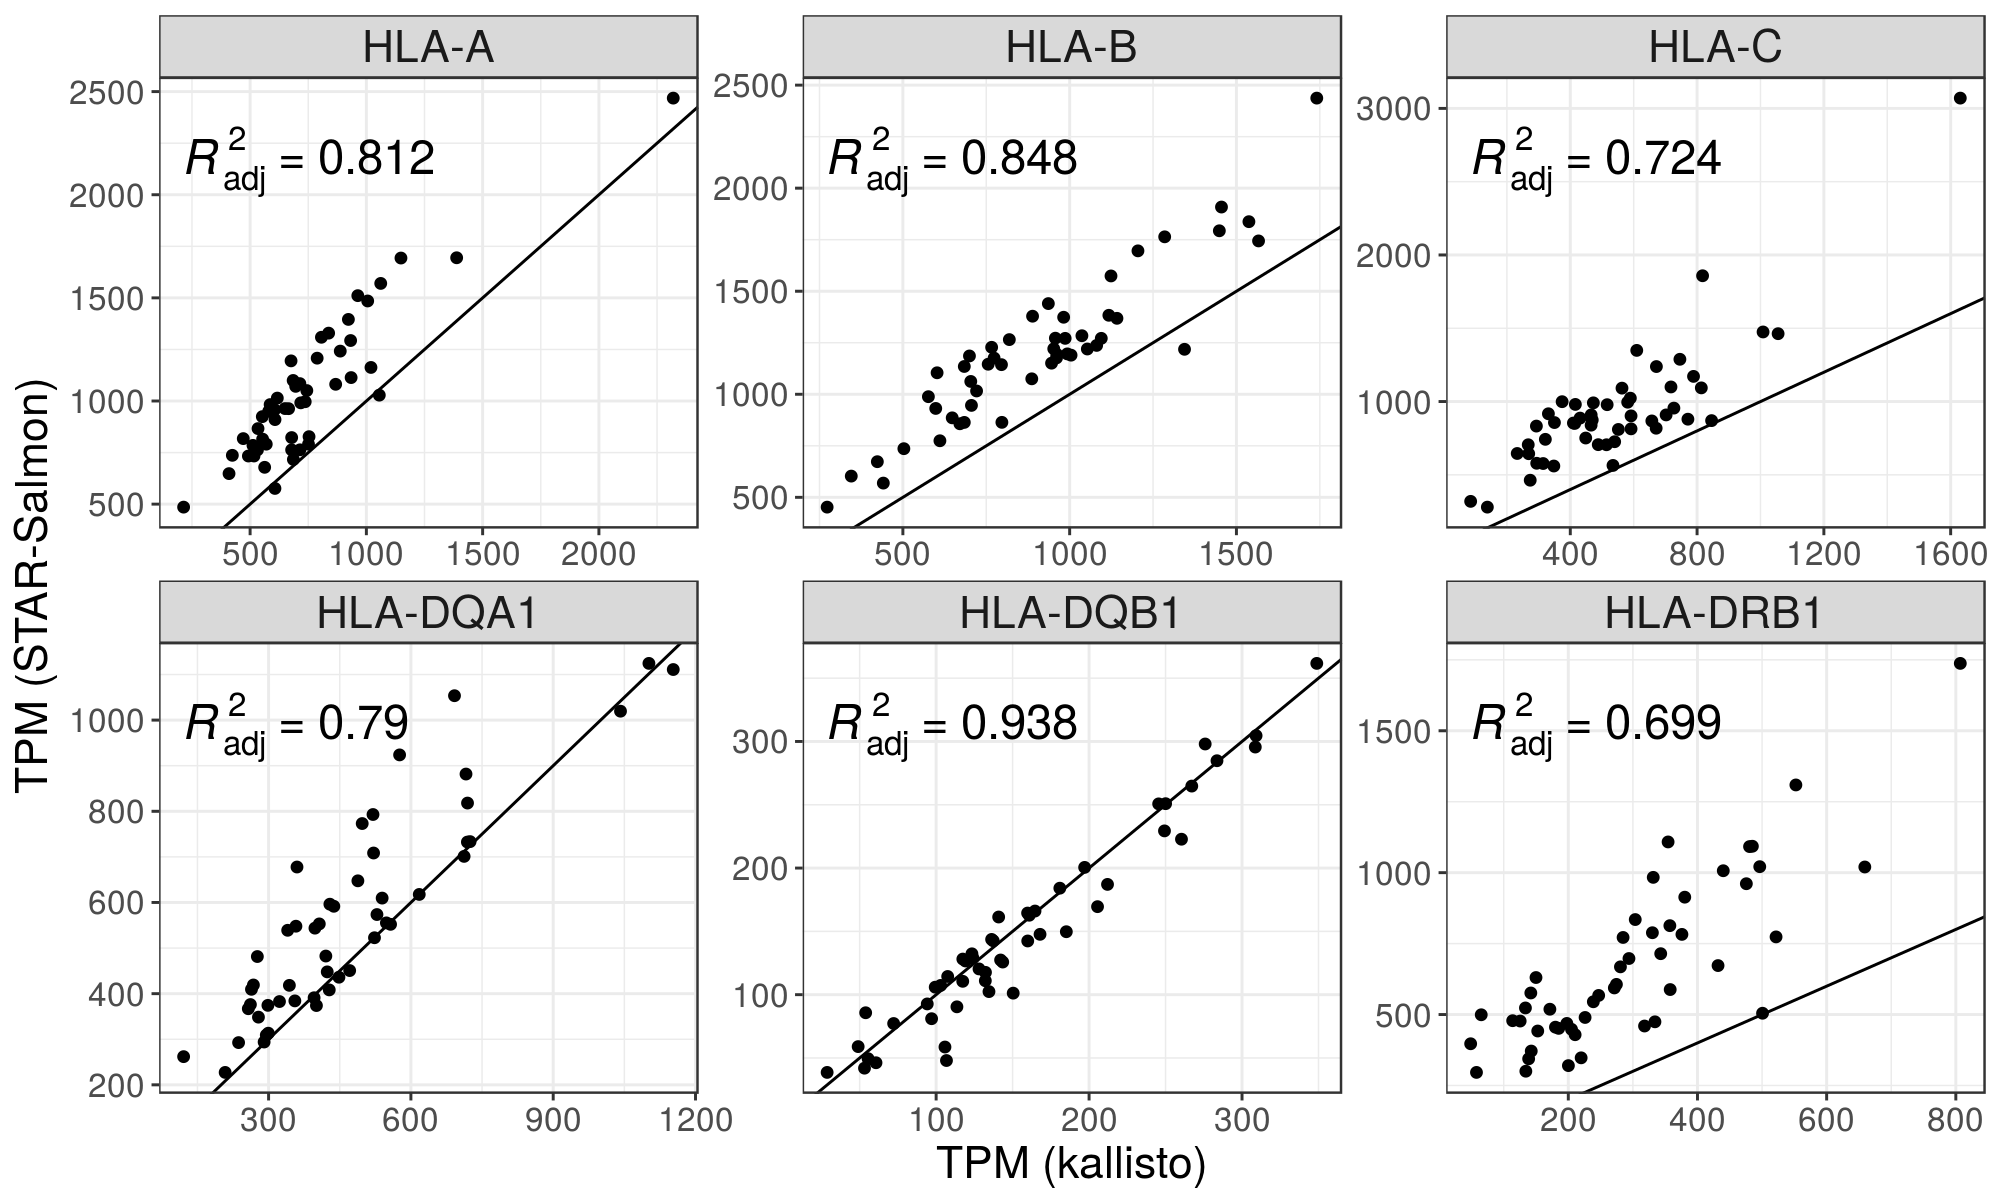
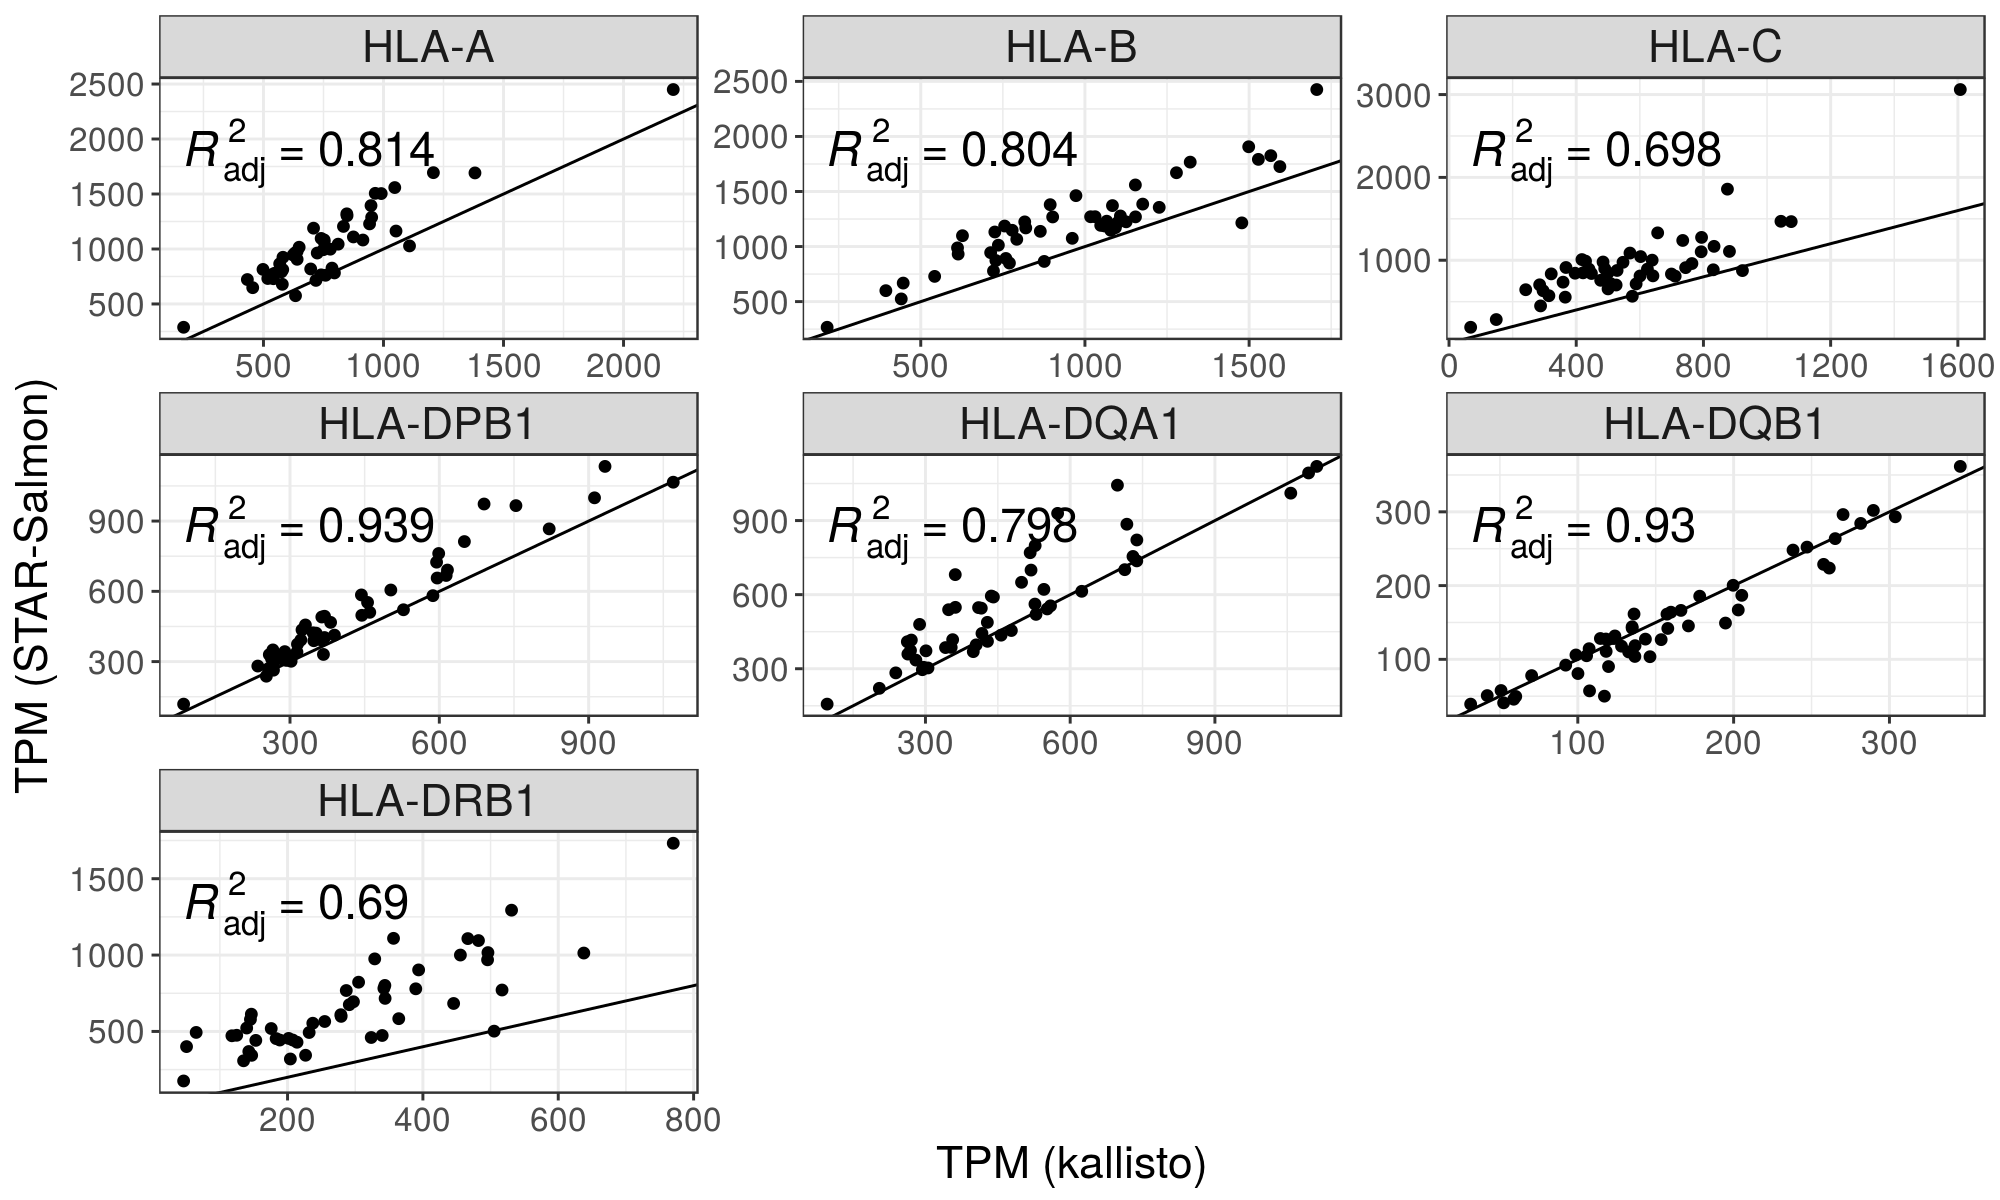
add DPB1 results

diff --git a/simulation/report.md b/simulation/report.md
@@ -21,6 +21,7 @@ Genotyping
 | HLA-A    |           100|
 | HLA-B    |           100|
 | HLA-C    |           100|
+| HLA-DPB1 |            91|
 | HLA-DQA1 |           100|
 | HLA-DQB1 |           100|
 | HLA-DRB1 |           100|
@@ -41,6 +42,7 @@ Genotyping
 | HLA-A    |           100|
 | HLA-B    |           100|
 | HLA-C    |           100|
+| HLA-DPB1 |            92|
 | HLA-DQA1 |           100|
 | HLA-DQB1 |           100|
 | HLA-DRB1 |           100|
@@ -57,27 +59,29 @@ Percentage of simulated reads not aligned:
 
 | gene\_read |  kallisto\_imgt|  kallisto\_pri|  star\_imgt|  star\_pri|
 |:-----------|---------------:|--------------:|-----------:|----------:|
-| HLA-A      |            2.30|          17.90|           0|       0.77|
-| HLA-B      |            2.16|          37.31|           0|       3.53|
-| HLA-C      |            2.31|          23.71|           0|       0.93|
-| HLA-DQA1   |            1.13|          17.93|           0|       4.61|
-| HLA-DQB1   |            1.37|          17.75|           0|       4.30|
-| HLA-DRB1   |            1.98|          66.64|           0|       7.48|
+| HLA-A      |          2.3216|        20.3804|      0.0004|     0.7588|
+| HLA-B      |          2.1864|        38.2640|      0.0002|     3.5494|
+| HLA-C      |          2.2980|        28.8020|      0.0004|     0.8900|
+| HLA-DPB1   |          1.2432|        10.4550|      0.0006|     0.6730|
+| HLA-DQA1   |          1.1666|        20.8500|      0.0004|     4.7542|
+| HLA-DQB1   |          1.3754|        22.5052|      0.0026|     5.2698|
+| HLA-DRB1   |          1.9876|        66.8854|      0.0002|     7.8766|
 
 Percentage of simulated reads from each HLA gene that aligned to a different reference:
 
 | gene\_read |  kallisto\_imgt|  kallisto\_pri|  star\_imgt|  star\_pri|
 |:-----------|---------------:|--------------:|-----------:|----------:|
-| HLA-A      |            1.98|           4.11|        1.38|       3.54|
-| HLA-B      |            0.37|          13.93|        0.32|      28.51|
-| HLA-C      |            0.07|           6.10|        0.01|       9.64|
-| HLA-DQA1   |            0.84|           4.60|        0.56|       6.05|
-| HLA-DQB1   |            0.12|           3.74|        0.02|       7.58|
-| HLA-DRB1   |            0.94|          19.94|        0.45|      21.28|
+| HLA-A      |          1.8524|         5.1044|      1.3774|     3.6446|
+| HLA-B      |          0.4026|        15.0642|      0.3470|    28.4666|
+| HLA-C      |          0.0740|         9.8402|      0.0082|     9.8112|
+| HLA-DPB1   |          0.0004|         0.0082|      0.0000|     0.0016|
+| HLA-DQA1   |          0.8952|         5.9270|      0.5840|     6.1890|
+| HLA-DQB1   |          0.1184|         5.7800|      0.0260|     9.4782|
+| HLA-DRB1   |          0.9258|        24.4876|      0.4192|    20.5300|
 
-The plot below shows where the reads simulated from a HLA gene (x-axis) are mapped when they aligned to a different reference (`n` in the entire dataset).
+The plot below shows where the reads simulated from a HLA gene (x-axis) are mapped when they aligned to a different reference.
 
-*This is just an initial exploration. The plot is hard to interpret, both because of the y unit and amount of colors*
+The dot diameters represent the average percentage of mappings across all individuals.
 
 ![](./plots/diff_refs_alignments.png)
 
@@ -85,12 +89,13 @@ Percentage of simulated reads gained by each HLA gene (reads simulated from othe
 
 | gene\_ref |  kallisto\_imgt|  kallisto\_pri|  star\_imgt|  star\_pri|
 |:----------|---------------:|--------------:|-----------:|----------:|
-| HLA-A     |            0.03|           1.95|        0.02|       1.56|
-| HLA-B     |            0.04|           5.39|        0.01|       8.82|
-| HLA-C     |            0.11|          12.78|        0.01|      25.21|
-| HLA-DQA1  |            0.11|           0.00|        0.08|       0.00|
-| HLA-DQB1  |            0.00|           0.00|        0.00|       0.00|
-| HLA-DRB1  |            0.13|           0.00|        0.08|       0.00|
+| HLA-A     |          0.0312|         2.5858|      0.0192|     1.6834|
+| HLA-B     |          0.0368|         6.5590|      0.0120|     9.0920|
+| HLA-C     |          0.1148|        16.8928|      0.0140|    24.5266|
+| HLA-DPB1  |          0.0000|         0.0012|      0.0000|     0.0006|
+| HLA-DQA1  |          0.1082|         0.3302|      0.0696|     0.1696|
+| HLA-DQB1  |          0.0004|         0.0380|      0.0000|     0.0010|
+| HLA-DRB1  |          0.1258|         9.3788|      0.0718|    10.4316|
 
 Comparisons between indices and aligners
 ========================================
